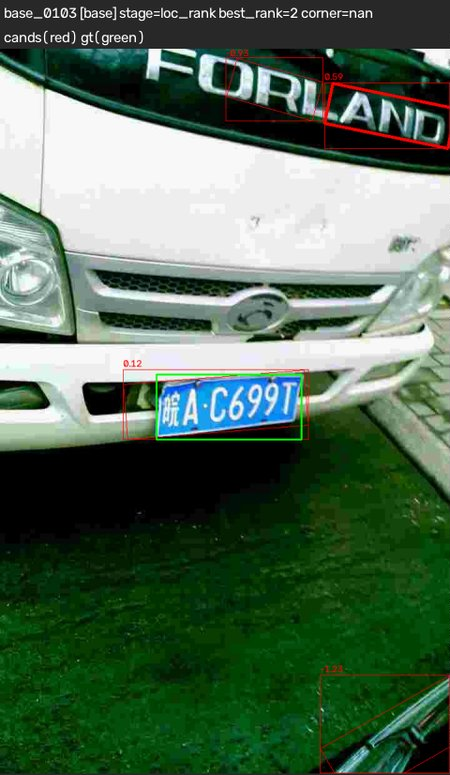
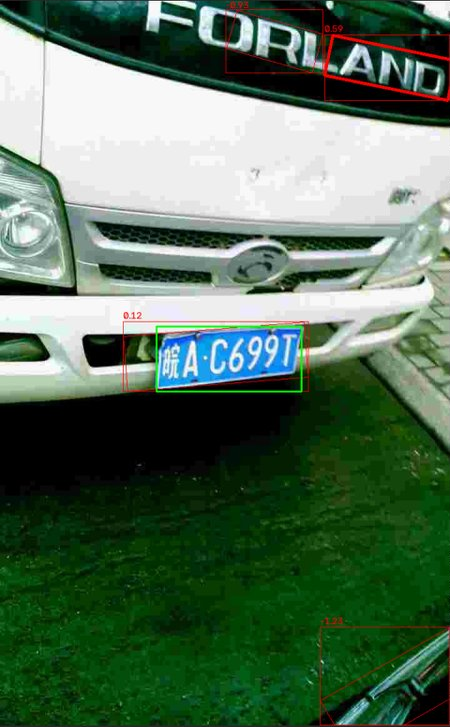
Sửa nhận xét review slide phần A
- Slide 9: biểu đồ triage làm riêng cho slide (chữ lớn hơn, cùng số liệu và màu), thu hẹp tabcolsep bảng
- Slide 7: ghi n cho từng dòng (347, 462, 14)
- Slide 1: "TRƯỜNG ĐẠI HỌC KHOA HỌC TỰ NHIÊN, ĐHQGHN"
- Slide 3: "(edge_svm)", "Chọn top-1 (bbox)"
- Slide 4: ghi rõ thử 640/720/800 trên tune, 800 tốt nhất
- Slide 10: cắt dải nhãn bị cắt ở đầu ảnh loc_rank_cands.png
- Slide 12: thêm E0 (run_all) và công cụ gán nhãn ký tự
- Sửa overfull ở slide 4, 5, 7, 8, 9

diff --git a/slides/slides_a.tex b/slides/slides_a.tex
@@ -76,7 +76,7 @@
   \begin{tikzpicture}[remember picture,overlay]
     \fill[accent] (current page.north west) rectangle ([yshift=-4.2cm]current page.north east);
     \node[anchor=north west,xshift=9mm,yshift=-7mm,text=white,align=left] at (current page.north west)
-      {\fontsize{9}{11}\selectfont\bfseries ĐẠI HỌC KHOA HỌC TỰ NHIÊN, ĐHQGHN};
+      {\fontsize{9}{11}\selectfont\bfseries TRƯỜNG ĐẠI HỌC KHOA HỌC TỰ NHIÊN, ĐHQGHN};
     \node[anchor=north east,xshift=-9mm,yshift=-5mm,fill=white,rounded corners=3pt,inner sep=2.5mm] at (current page.north east)
       {\includegraphics[height=2.3cm]{figures/HUS.png}};
     \node[anchor=south west,xshift=9mm,yshift=-4.2cm+4mm,text=white,align=left,text width=0.72\paperwidth] at (current page.north west)
@@ -136,8 +136,8 @@
     \node[boxA] (in) {Ảnh xe (BGR)};
     \node[boxA,right=of in] (pre) {\textbf{Tiền xử lý}\\resize 800, xám,\\CLAHE, lọc nhiễu};
     \node[boxA,right=of pre] (edge) {\textbf{Định vị theo cạnh}\\Sobel-x, Otsu,\\morph đa tỉ lệ,\\lọc, NMS};
-    \node[boxA,right=of edge] (svm) {\textbf{HOG + SVM}\\xếp lại top-5\\(biến thể A+SVM)};
-    \node[boxA,below=of svm] (top1) {Chọn top-1\\(bbox + quad)};
+    \node[boxA,right=of edge] (svm) {\textbf{HOG + SVM}\\xếp lại top-5\\(edge\_svm)};
+    \node[boxA,below=of svm] (top1) {Chọn top-1\\(bbox)};
     \node[boxA,left=of top1] (quad) {\textbf{Ước lượng quad}\\từ mặt nạ xanh\\(HSV)};
     \node[boxA,left=of quad] (warp) {\textbf{Nắn phối cảnh}\\homography về\\ảnh $220\times 70$};
     \node[boxB,left=of warp] (partb) {\textbf{Phần B (Bích)}\\nhị phân hóa,\\tách ký tự};
@@ -155,7 +155,7 @@
   \begin{columns}[T]
     \column{0.42\textwidth}
     \begin{itemize}
-      \item Resize về rộng \acc{800} px (ảnh lớn hơn thì tốt hơn), ảnh xám.
+      \item Resize về rộng \acc{800} px (thử 640/720/800 trên tune, 800 tốt nhất), ảnh xám.
       \item CLAHE (clip 2.0, lưới $8\times8$) cân bằng sáng cục bộ.
       \item So sánh 4 bộ lọc: \code{none}, \code{gaussian}, \code{median}, \code{bilateral}.
       \item Chọn \hl{bilateral} theo F1 trên tune (0.761 so với 0.584--0.624).
@@ -164,7 +164,7 @@
     \column{0.56\textwidth}
     {\small\bfseries Tập test, $n=462$, \code{localize\_edge}}\\[1mm]
     \small
-    \begin{tabularx}{\linewidth}{lCCCC}
+    \setlength{\tabcolsep}{3pt}\begin{tabularx}{\linewidth}{lCCCC}
       \rowcolor{accent}\hd{Bộ lọc} & \hd{F1} & \hd{R@1} & \hd{R@5} & \hd{ms/ảnh}\\
       \rowcolor{accentlight}\textbf{bilateral} & \textbf{0.705} & \textbf{0.682} & \textbf{0.792} & 111.1\\
       gaussian & 0.630 & 0.615 & 0.712 & 82.4\\
@@ -192,7 +192,7 @@
     {\small \textbf{Issue \#10}: nút thắt ở bộ lọc (tăng $k$ lên 10 không đổi). Sửa: hai kernel phụ, \code{area\_ratio} $[0.008,0.16]$, \code{aspect} $[1.5,7]$, chọn trên tune.}
     \column{0.48\textwidth}
     {\small\bfseries Trước và sau, tập test (\code{localize\_edge})}\\[1mm]
-    \begin{tabularx}{\linewidth}{lCC}
+    \setlength{\tabcolsep}{3pt}\begin{tabularx}{\linewidth}{lCC}
       \rowcolor{accent}\hd{ALL ($n=462$)} & \hd{Cũ} & \hd{Chốt}\\
       Recall ứng viên (R@5) & 0.667 & \acc{0.792}\\
       \rowcolor{accentlight}Recall@1 (top-1) & 0.545 & \acc{0.682}\\
@@ -235,13 +235,13 @@
     \column{0.56\textwidth}
     {\small\bfseries Tập test, toàn pipeline}\\[1mm]
     \small
-    \begin{tabularx}{\linewidth}{lCC}
+    \setlength{\tabcolsep}{3pt}\begin{tabularx}{\linewidth}{lCC}
       \rowcolor{accent}\hd{Chỉ số} & \hd{bbox} & \hd{Quad}\\
-      Sai số góc, tb (px) & 25.2 & \acc{16.3}\\
-      \rowcolor{accentlight}Sai số góc, trung vị (px) & 19.4 & \acc{13.8}\\
-      \code{all\_correct}, crop \code{gt} & 0.262 & \acc{0.563}\\
-      \rowcolor{accentlight}\code{all\_correct}, top-1 đúng & 0.124 & \acc{0.259}\\
-      Sai số góc \code{tilt} (px) & 68.0 & \acc{28.9}\\
+      Sai số góc, tb (px), $n{=}347$ & 25.2 & \acc{16.3}\\
+      \rowcolor{accentlight}Sai số góc, trung vị (px), $n{=}347$ & 19.4 & \acc{13.8}\\
+      \code{all\_correct}, crop \code{gt}, $n{=}462$ & 0.262 & \acc{0.563}\\
+      \rowcolor{accentlight}\code{all\_correct}, top-1 đúng, $n{=}347$ & 0.124 & \acc{0.259}\\
+      Sai số góc \code{tilt} (px), $n{=}14$ & 68.0 & \acc{28.9}\\
     \end{tabularx}
     \vspace{2mm}
 
@@ -254,7 +254,7 @@
   \begin{columns}[T]
     \column{0.58\textwidth}
     {\small\bfseries ms/ảnh, trung bình, tập test, một tiến trình}\\[2mm]
-    \begin{tikzpicture}[xshift=9mm,x=0.050cm,y=0.9cm,font=\small]
+    \begin{tikzpicture}[xshift=9mm,x=0.040cm,y=0.9cm,font=\small]
       \barrow{3.0}{Tiền xử lý}{69.79}{69.8}
       \barrow{2.0}{Sobel, morph, lọc, NMS}{63.50}{63.5}
       \barrow{1.0}{HOG + SVM}{4.77}{4.8}
@@ -277,9 +277,10 @@
 \begin{frame}{Triage lỗi: mỗi ảnh test mất ở bước nào?}
   \begin{columns}[T]
     \column{0.62\textwidth}
-    \includegraphics[width=\linewidth]{figures/triage_stages.png}
+    \includegraphics[width=\linewidth,height=0.66\textheight,keepaspectratio]{figures/triage_stages_slide.png}
     \column{0.36\textwidth}
     \footnotesize
+    \setlength{\tabcolsep}{2pt}
     \begin{tabularx}{\linewidth}{>{\raggedright\arraybackslash}Xrr}
       \rowcolor{accent}\hd{Bước lỗi chính} & \hd{Ảnh} & \hd{\%\,}\\
       \code{loc\_no\_candidate} & 96 & 20.8\\
@@ -342,10 +343,12 @@
   {\Large\bfseries\color{accentdark} Nguyễn Ngọc Bích (24001977)}\\[4mm]
   {\color{muted}Hệ màu, nhị phân hóa, tách ký tự}\\[8mm]
   \begin{tabular}{@{}ll@{}}
+    \acc{E0} & khung \code{run\_all}\\
     \acc{E1} & phân tích hệ màu\\
     \acc{E5} & nhị phân hóa: Otsu và adaptive\\
     \acc{E6} & tách ký tự: CCA và projection\\
     \acc{E8} & ảnh biển số Việt Nam tự chụp, đánh giá định tính\\
+    \acc{Công cụ} & gán nhãn ký tự (\code{label\_chars})\\
   \end{tabular}
   \vfill
   {\footnotesize\color{muted}Nội dung và số liệu do Bích trình bày.}
